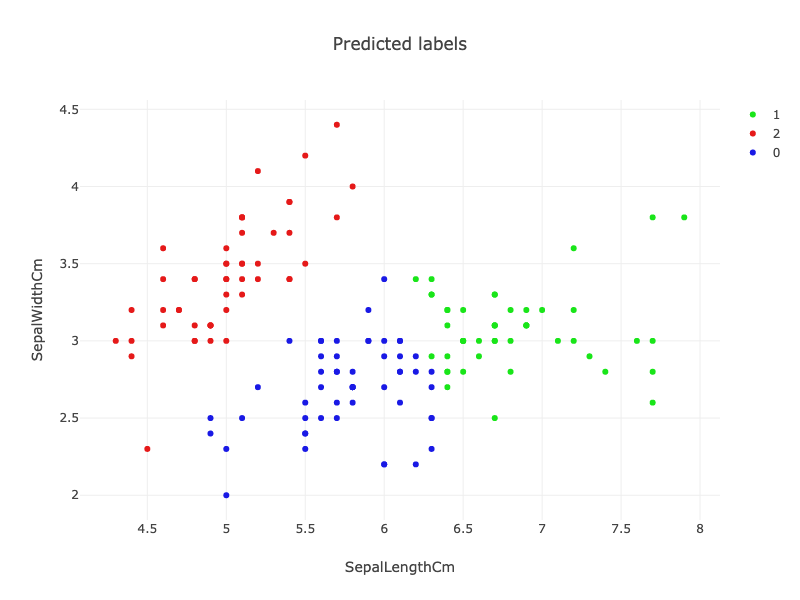
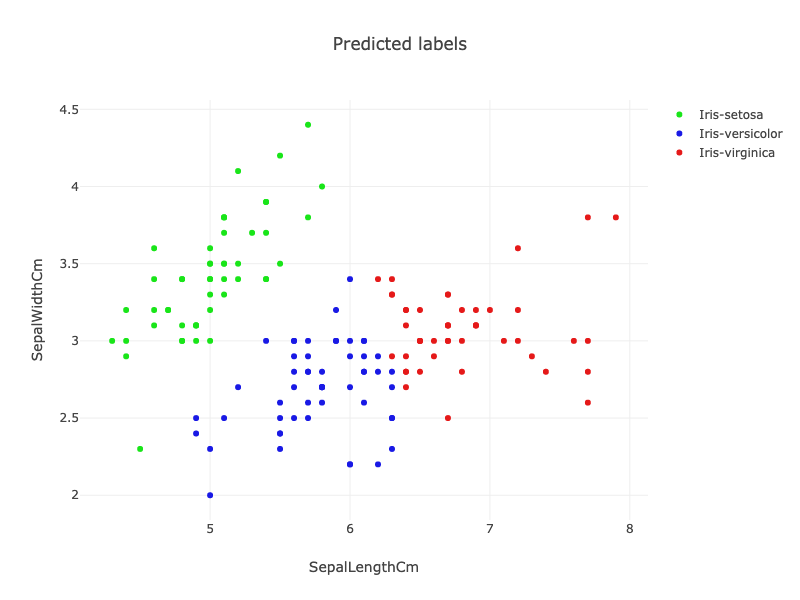
Refining labels

diff --git a/Classification-Analysis-Rust/k_means/src/main.rs b/Classification-Analysis-Rust/k_means/src/main.rs
@@ -14,6 +14,7 @@ use linfa_clustering::KMeans;
 use polars_core::prelude::{NamedFrom, Series};
 use tokio_compat_02::FutureExt;
 use data_loader::{download_file, KaggleFile};
+use itertools::Itertools;
 
 fn plotting_relational_plot(x_name: &str, y_name: &str, z_name: &str, data: &DataFrame, title: &str) {
     let traces = single_relational_plot(x_name, y_name, z_name, data);
@@ -34,6 +35,60 @@ fn plotting_relational_plot(x_name: &str, y_name: &str, z_name: &str, data: &Dat
 
     // plot.show(); showup the plot in the browser
     plot.write_image(format!("k_means/{title}.png"), PNG, 800, 600, 1.0);
+}
+
+fn refine_labels(dataframe: &mut DataFrame, y_column: &str, y_pred_column: &str) {
+    let categories = dataframe.select_series([y_column])
+        .unwrap().get(0).expect("Non existent series").unique().unwrap();
+
+
+    println!("{:?}", categories);
+    let predicted_categories = dataframe.select_series([y_pred_column])
+        .unwrap().get(0).unwrap().unique().unwrap();
+
+    let mut best_labels: Series = Default::default();
+    let mut best_label_count = 0;
+    for perm in (0..predicted_categories.len()).permutations(predicted_categories.len()) {
+        /*let casted_labels = dataframe.column(y_pred_column)
+            .unwrap().iter().map(
+            |x| {
+                categories.get(x.get_str().unwrap()
+                    .to_string().parse::<usize>()
+                    .unwrap()).unwrap()
+            }
+        );
+        let casted_labels = casted_labels.collect::<Vec<_>>();
+
+        println!("{:?}", casted_labels);*/
+        let casted_labels: Series = dataframe.column(y_pred_column)
+            .unwrap().iter().map(
+            |x| {
+                categories.get(
+                    perm[x.get_str().unwrap()
+                        .to_string().parse::<usize>()
+                        .unwrap()]
+                )
+                    .unwrap().get_str().unwrap().to_string()
+            }
+        ).collect();
+        // println!("{:?}", casted_labels);
+        let check: usize = casted_labels.iter()
+            .zip(dataframe.column(y_column).unwrap().iter())
+            .map(|(x, y)| {
+                let x = x.get_str().unwrap();
+                let y = y.get_str().unwrap();
+                if x == y {
+                    1
+                } else {
+                    0
+                }
+            }).sum();
+        if check > best_label_count {
+            best_label_count = check;
+            best_labels = casted_labels;
+        }
+    }
+    dataframe.replace_or_add(y_pred_column.into(), best_labels).unwrap();
 }
 
 #[tokio::main]
@@ -66,7 +121,7 @@ async fn main() {
                              "Iris Dataset");
 
     let x = data_frame
-        .select(["SepalLengthCm","SepalWidthCm"])
+        .select(["SepalLengthCm", "SepalWidthCm"])
         .unwrap();
     let y = data_frame.select(["Species"]).unwrap();
     let features = x.to_ndarray::<Float64Type>(IndexOrder::C).unwrap();
@@ -90,9 +145,12 @@ async fn main() {
     let mut binding = data_frame.clone();
     let data_frame = binding.replace_or_add("labels".into(), labels).unwrap();
 
+    refine_labels(data_frame, "Species", "labels");
+
     plotting_relational_plot("SepalLengthCm",
                              "SepalWidthCm",
                              "labels", &data_frame,
                              "Predicted labels");
+
 
 }
